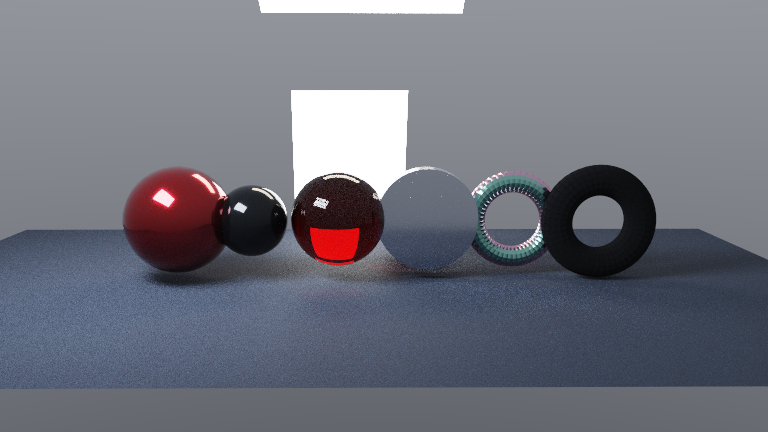
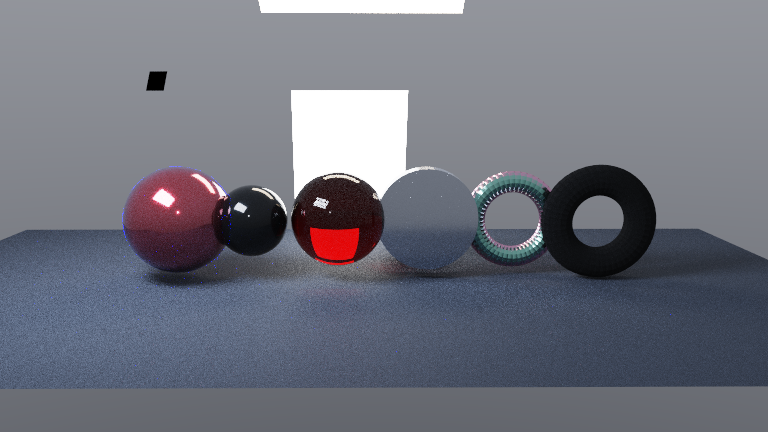
feat(materials): add analytic automotive paint flakes and flop

Changed region(s): [[0.1562, 0.3611, 0.3125, 0.6319], [0.1875, 0.1505, 0.2188, 0.2106]]

diff --git a/Exhibits/Workbench/Automotive/AutomotiveMaterialPreview.cpp b/Exhibits/Workbench/Automotive/AutomotiveMaterialPreview.cpp
@@ -5,6 +5,7 @@
 // MaterialEvaluation.slang text through ShaderballPreview.cpp, and uses the shared profile constructors in
 // AutomotiveMaterialProfiles.slang. Nothing here is wired into Project-Zero's scene or host serialization.
 #define SHADERBALL_PREVIEW_LIB
+#define FRONTIER_AUTOMOTIVE_PREVIEW
 #include "../../../Engine/ContentInterchange/ShaderballPreview.cpp"
 
 #include <algorithm>
@@ -161,6 +162,9 @@ void AddStudioRig(const vec3& Subject)
     // A broad rear light makes transmission through the red tail lens readable.
     AddSoftbox(vec3(-0.3f, 4.8f, 2.0f), Subject - vec3(-0.3f, 4.8f, 2.0f),
                vec3(0.0f, 0.0f, 1.0f), 1.3f, 1.3f, vec3(7.0f, 7.0f, 7.0f), 7);
+    // Small high-intensity source: real direct light for the flake lobe, not an emissive paint cheat.
+    AddSoftbox(vec3(-1.8f, -4.5f, 3.4f), Subject - vec3(-1.8f, -4.5f, 3.4f),
+               vec3(0.0f, 0.0f, 1.0f), 0.10f, 0.10f, vec3(70.0f, 72.0f, 78.0f), 7);
 }
 
 void BuildSuiteScene()
@@ -190,6 +194,19 @@ void BuildSuiteScene()
     AddSphere(vec3(0.95f, 2.05f, 0.78f), 0.68f, 6);          // Alcantara sample
 
     AddStudioRig(vec3(0.0f, 1.0f, 1.0f));
+    FinaliseScene();
+}
+
+void BuildPaintScene()
+{
+    ClearScene();
+    g_Mats[0] = AutomotiveTriCoat(vec3(0.42f, 0.008f, 0.018f), 0.11f, 0.045f, 1.58f);
+    g_Mats[1] = GroundMaterial();
+    for (int I = 2; I < 8; ++I) g_Mats[I] = GroundMaterial();
+    AddQuad(vec3(-6.0f, -4.0f, 0.0f), vec3(6.0f, -4.0f, 0.0f),
+            vec3(6.0f, 4.0f, 0.0f), vec3(-6.0f, 4.0f, 0.0f), 1);
+    AddSphere(vec3(0.0f, 0.65f, 1.48f), 1.38f, 0, 48, 28);
+    AddStudioRig(vec3(0.0f, 0.8f, 1.4f));
     FinaliseScene();
 }
 
@@ -283,6 +300,26 @@ bool WriteFilm(const char* Path, const std::vector<float>& Film, int W, int H, f
     return PngWriteCounterpart::WritePng(Path, W, H, 3, Pixels.data(), W * 3) != 0;
 }
 
+bool WriteSideBySide(const char* Path, const std::vector<float>& Left, const std::vector<float>& Right,
+                     int W, int H, float Exposure = 1.0f)
+{
+    int SheetW = W * 2;
+    std::vector<unsigned char> Pixels(static_cast<size_t>(SheetW) * H * 3u, 0u);
+    for (int Panel = 0; Panel < 2; ++Panel)
+    {
+        const std::vector<float>& Film = Panel == 0 ? Left : Right;
+        for (int Y = 0; Y < H; ++Y)
+            for (int X = 0; X < W; ++X)
+                for (int Ch = 0; Ch < 3; ++Ch)
+                {
+                    float V = AcesEncode(Film[(static_cast<size_t>(Y) * W + X) * 3u + Ch] * Exposure);
+                    Pixels[(static_cast<size_t>(Y) * SheetW + Panel * W + X) * 3u + Ch] =
+                        static_cast<unsigned char>(std::pow(V, 1.0f / 2.2f) * 255.0f + 0.5f);
+                }
+    }
+    return PngWriteCounterpart::WritePng(Path, SheetW, H, 3, Pixels.data(), SheetW * 3) != 0;
+}
+
 } // namespace
 
 int main(int Argc, char** Argv)
@@ -315,8 +352,21 @@ int main(int Argc, char** Argv)
     std::string OpticsPath = OutDir + "/AutomotiveOpticsAndCoatings.png";
     if (!WriteFilm(OpticsPath.c_str(), Optics, Width, Height, 1.0f)) return 3;
 
+    BuildPaintScene();
+    int PaintW = Width / 2;
+    Camera FaceCamera = MakeCamera(vec3(0.0f, -8.5f, 2.45f), vec3(0.0f, 0.65f, 1.45f),
+                                   static_cast<float>(PaintW) / Height, 28.0f);
+    Camera GrazingCamera = MakeCamera(vec3(4.8f, -6.4f, 2.85f), vec3(0.0f, 0.65f, 1.45f),
+                                      static_cast<float>(PaintW) / Height, 28.0f);
+    std::vector<float> Face, Grazing;
+    RenderFilm(FaceCamera, PaintW, Height, Spp, Face, 303);
+    RenderFilm(GrazingCamera, PaintW, Height, Spp, Grazing, 404);
+    std::string PaintPath = OutDir + "/AutomotivePaintFlakeFlopComparison.png";
+    if (!WriteSideBySide(PaintPath.c_str(), Face, Grazing, PaintW, Height, 1.0f)) return 4;
+
     std::printf("[AutomotivePreview] wrote %s\n", SuitePath.c_str());
     std::printf("[AutomotivePreview] wrote %s\n", OpticsPath.c_str());
+    std::printf("[AutomotivePreview] wrote %s\n", PaintPath.c_str());
     std::printf("[AutomotivePreview] exact BSDF: Engine/Shaders/MaterialEvaluation.slang\n");
     std::printf("[AutomotivePreview] exact profiles: Engine/Shaders/AutomotiveMaterialProfiles.slang\n");
     std::printf("[AutomotivePreview] scene is standalone; Project-Zero integration is intentionally absent\n");

diff --git a/Engine/ContentInterchange/ShaderballPreview.cpp b/Engine/ContentInterchange/ShaderballPreview.cpp
@@ -608,6 +608,13 @@ vec3 Radiance(vec3 O, vec3 D, Rng& R)
         ShadingFrame(Ns, Tt, Bt);
         vec3 wo(dot(-D, Tt), dot(-D, Bt), dot(-D, Ns));
         ShadingRecord m = g_Mats[T.Mat];   // local copy: the v1 nested fallback below may zero transmission
+#ifdef FRONTIER_AUTOMOTIVE_PREVIEW
+        // The standalone automotive scene opts into the shared analytic flake/flop profile. The hook is compile-time
+        // isolated from the ordinary shaderball exhibit and Project-Zero; the material math itself lives in the
+        // included AutomotiveMaterialProfiles.slang, which is also visible to the GPU Slang evaluator.
+        if (m.Metalness > 0.8f && m.CoatWeight > 0.0f)
+            m = AutomotiveApplyTriCoatFlakes(m, P, Ns, -D, vec3(0.025f, 0.14f, 0.72f), 0.32f, 28.0f, 0.37f);
+#endif
         bool solidHit = g_SolidBall && T.Mat == 0 && m.TransmissionWeight > 0.0f;
         bool fromInside = Inside && T.Mat == EntryMat;
         if (Inside && T.Mat != EntryMat && m.TransmissionWeight > 0.0f)

diff --git a/References/AutomotiveMaterials-Plan.md b/References/AutomotiveMaterials-Plan.md
@@ -46,13 +46,20 @@ material math is identical to the Slang evaluator. GPU lowering/runtime validati
 
 ## Next implementation stages
 
-### A. Procedural flakes and flop
+### A. Procedural flakes and flop — preview complete
 
-1. Add an explicit automotive parameter block to the material authoring/profile format.
-2. Add deterministic dual-scale flake density/jitter and micro-roughness to the shared Slang profile layer.
-3. Add view-angle flop from face tint to grazing tint using the canonical `AutomotiveFlopColor` curve.
-4. Keep a texture-free analytic fallback for CPU/GPU parity.
-5. Add a close-up render with direct sunlight and a grazing camera angle.
+Implemented in the shared profile source and standalone preview:
+
+1. `AutomotiveFlakeSignal` uses two deterministic incommensurate analytic bands for sparse flakes.
+2. `AutomotiveApplyTriCoatFlakes` modulates the shared base/coat record and micro-roughness; it does not add a fake
+   light source or bypass the OpenPBR evaluator.
+3. `AutomotiveFlopColor` shifts face tint toward a grazing tint with a canonical fifth-power Fresnel-style curve.
+4. The CPU preview hook is compile-time isolated to the standalone automotive scene; the profile functions remain in the
+   common Slang include for the eventual GPU material-record integration.
+5. `AutomotivePaintFlakeFlopComparison.png` renders face-on versus grazing views.
+
+The GPU host does not serialize the new automotive parameters yet. That is intentional and remains part of the later
+Project-Zero integration gate.
 
 ### B. UV-backed surface detail
 

diff --git a/Exhibits/Gallery/Automotive/README.md b/Exhibits/Gallery/Automotive/README.md
@@ -21,9 +21,11 @@ is included by `MaterialEvaluation.slang` and therefore is shared with the GPU s
   titanium, tire rubber, and Alcantara on procedural preview geometry.
 - `AutomotiveOpticsAndCoatings.png` — clear headlight glass, red tail-lens glass, blue tri-coat paint, brushed alloy,
   and thin-film titanium in a closer optics/coating arrangement.
+- `AutomotivePaintFlakeFlopComparison.png` — the same red tri-coat paint from a face-on and grazing camera. The
+  deterministic analytic flake signal and grazing-angle flop are active in both panels.
 
-The geometry is generated from UV-parameterized spheres, torus rings, and a cylinder. The current profiles are
-constants-only; UV-backed carbon weave, flakes, and tread textures are deliberately deferred until this preview is
-accepted.
+The geometry is generated from UV-parameterized spheres, torus rings, and a cylinder. The current flakes are a
+texture-free analytic fallback in the shared Slang profile; UV-backed carbon weave and tread textures remain deferred
+until this preview is accepted.
 
 The saved implementation plan is `References/AutomotiveMaterials-Plan.md`.
